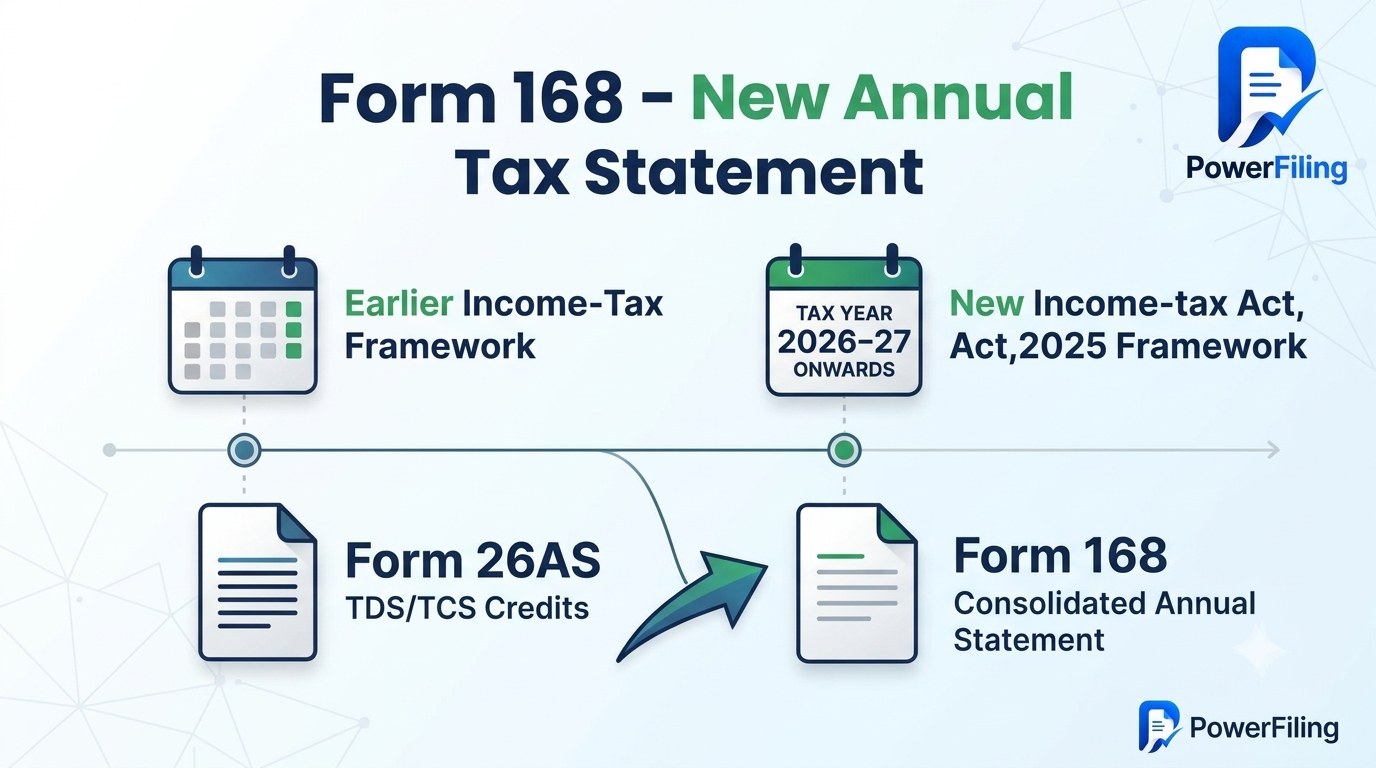
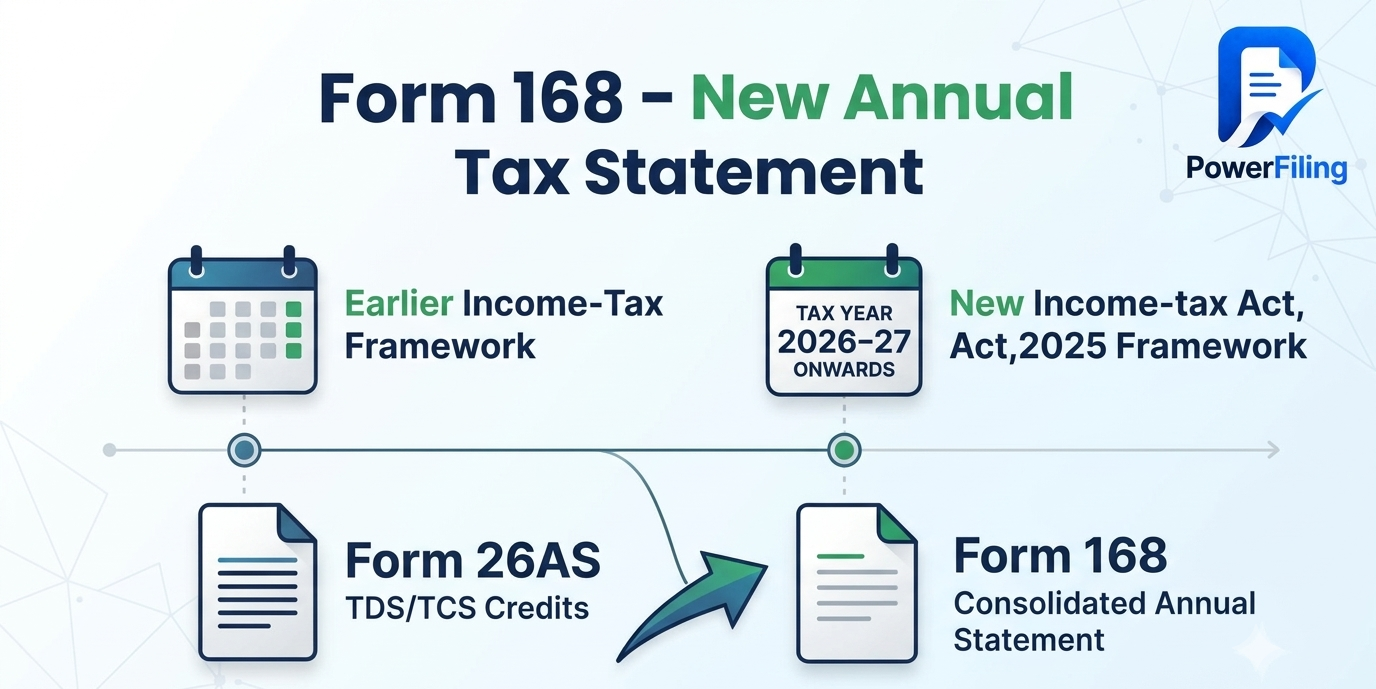
image

diff --git a/client/src/pages/blog/BlogDetail.jsx b/client/src/pages/blog/BlogDetail.jsx
@@ -230,7 +230,7 @@ const BlogDetail = () => {
         <div className="max-w-6xl mx-auto px-4 py-4 flex flex-col sm:flex-row items-center justify-center gap-3 sm:gap-5">
           {/* Left text */}
           <p className="text-sm sm:text-base font-medium text-slate-200 text-center sm:text-left">
-            📅 Deadline for ITR 3 & 4 is{" "}
+            📅 Deadline for revised ITR 3 & 4 is{" "}
             <strong className="text-white text-base sm:text-lg">31st August</strong>{" "}
             — Don't miss it!
           </p>
